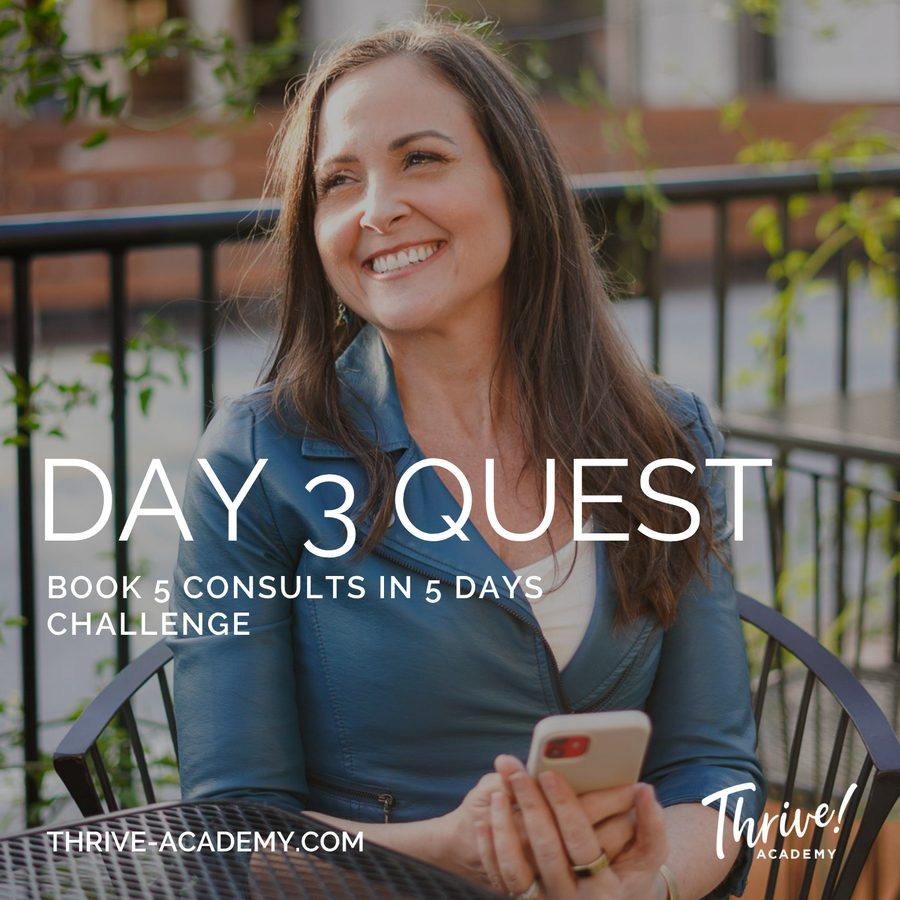
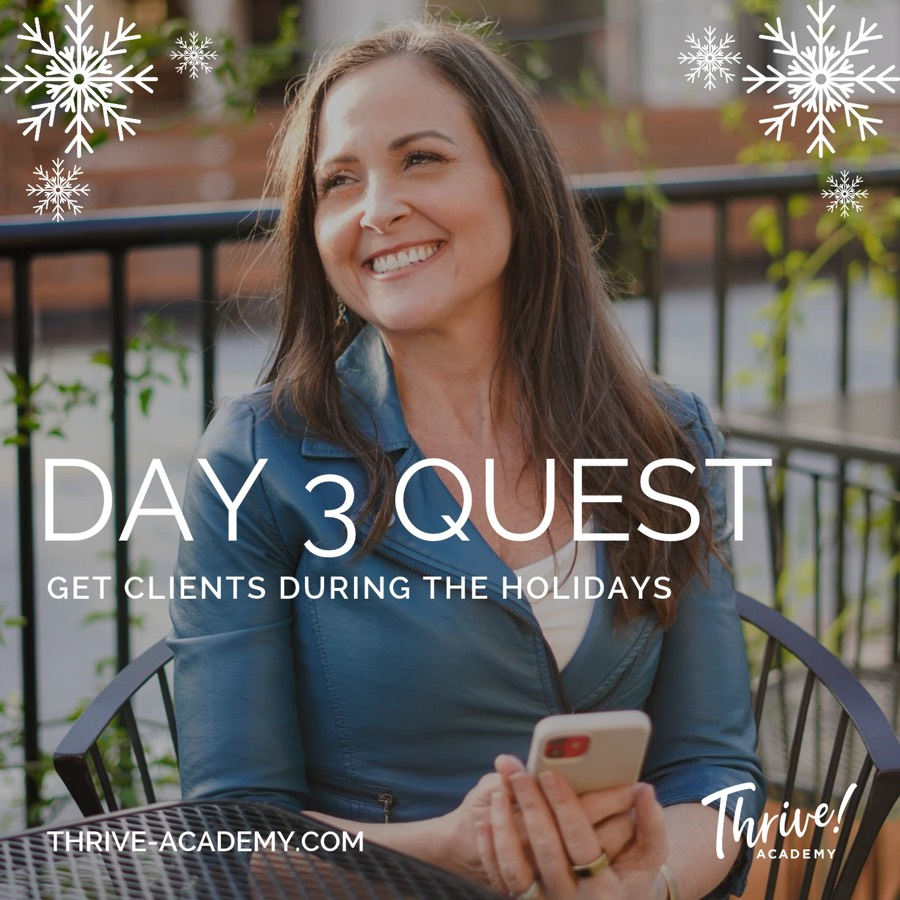
Holiday theme turned up until it registers, plus the new Quest artwork
Ella, 26 Oct: "for the design you decide as long as it's all within branding."

The first version was invisible and she was right to say nothing had changed.
Measured: the frost wash was #F2F7FB sitting on a #F4F4F5 ground. A 2 point
difference. The band shifted 4 points. The snow ran at 5% opacity. I had
optimised for "subtle" and missed "they must feel that the holiday is coming",
which was the other half of the brief.

Her own Quest graphics settle the question. They carry Santa hats, Christmas
trees and snowflakes. Against artwork that festive, a whisper on the page is
not restraint, it is under-dressed.

Turned up, same five ideas, nothing new introduced:
  ground   #F2F7FB -> #E3EEF7 on a cooler #EEF2F6, and a wider wash
  snow     opacity .055 -> .10, dots larger, grid tighter
  band     top #16294B -> #0E1E3C, and a gold hairline along its base
  hairline 68x2 -> 120x3 under headings
  labels   the small Oswald type takes Golden Ticket gold instead of grey
  cards    lift off the colder ground with a 1px shadow

Within the guidelines. Raleway and Oswald untouched, square corners untouched,
orange CTAs untouched so nothing here can move conversion, navy still a band
and a type colour and never a background field. The gold is the Golden Ticket
gradient already in the file, not a new colour.

Still preview only. Sharla has not seen it, and her last verdict on a look I
shipped without showing her first was "off-brand".

diff --git a/index.html b/index.html
@@ -863,8 +863,8 @@ footer.site .f-base{border-top:1px solid var(--line);padding-top:16px;display:fl
    few degrees colder rather than turning blue. */
 body{
   background:
-    radial-gradient(1200px 520px at 50% -140px, #F2F7FB 0%, rgba(242,247,251,0) 70%),
-    var(--shell);
+    radial-gradient(1400px 620px at 50% -160px, #E3EEF7 0%, rgba(227,238,247,0) 72%),
+    #EEF2F6;
 }
 
 /* The faintest snow-dot texture, two offset dot grids at low opacity. It
@@ -873,24 +873,24 @@ body{
 body::before{
   content:"";position:fixed;inset:0;z-index:0;pointer-events:none;
   background-image:
-    radial-gradient(circle at 20% 30%, rgba(255,255,255,.85) 1px, transparent 1.4px),
-    radial-gradient(circle at 70% 60%, rgba(26,50,92,.055) 1px, transparent 1.4px);
-  background-size:120px 120px, 170px 170px;
+    radial-gradient(circle at 20% 30%, rgba(255,255,255,.95) 1.4px, transparent 2px),
+    radial-gradient(circle at 70% 60%, rgba(26,50,92,.10) 1.3px, transparent 1.9px);
+  background-size:90px 90px, 130px 130px;
 }
 .shell{position:relative;z-index:1}
 
 /* The navy band deepens a touch and gains a cold edge, so it reads as a
    winter night rather than flat corporate navy. */
 .strip{
-  background:linear-gradient(180deg,#16294B 0%, var(--ink) 100%);
-  box-shadow:inset 0 -1px 0 rgba(255,255,255,.07);
+  background:linear-gradient(180deg,#0E1E3C 0%, var(--ink) 100%);
+  box-shadow:inset 0 -2px 0 rgba(214,177,70,.55);
 }
 
 /* Gold accent, borrowed from the Golden Ticket rather than introduced.
    A hairline under each day heading. */
 .prep .pre-do::after,
 #main > h1::after{
-  content:"";display:block;width:68px;height:2px;margin-top:14px;
+  content:"";display:block;width:120px;height:3px;margin-top:14px;
   background:var(--grad-gold);
 }
 
@@ -903,7 +903,11 @@ body::before{
 
 /* Day cards and panels lift very slightly off the colder ground so they do
    not look flat against it. */
-.card,.steps,.soon,.winner{background:#fff}
+.card,.steps,.soon,.winner{background:#fff;box-shadow:0 1px 3px rgba(26,50,92,.07)}
+
+/* The small Oswald labels take the Golden Ticket gold instead of grey. It is
+   the one place the season can speak in type without touching a headline. */
+.side .stick h2, .prep .eyebrow{color:#8A6A12}
 
 @media (prefers-reduced-motion: reduce){ body::before{background-image:none} }
 
@@ -1385,7 +1389,7 @@ var CHALLENGE = {
    exactly what happened on 4 September. Each file carries a short hash of its
    own contents, so replacing the file changes the URL and the new one loads.
    Regenerate these whenever a media file is replaced. */
-var MEDIA = {"logo-navy.png":"e76a58c1", "summit-banner.jpg":"232a6c81", "hero.mp4":"85685da3", "hero-poster.jpg":"22612919", "welcome.mp4":"cf61e919", "welcome-poster.jpg":"6ec137a9"};
+var MEDIA = {"logo-navy.png":"e76a58c1", "summit-banner.jpg":"232a6c81", "hero.mp4":"85685da3", "hero-poster.jpg":"22612919", "welcome.mp4":"cf61e919", "welcome-poster.jpg":"6ec137a9", "quest-day1.jpg":"a8546bce", "quest-day2.jpg":"28ee402c", "quest-day3.jpg":"8534965c", "quest-day4.jpg":"f2194816", "quest-day5.jpg":"63a6514f"};
 function m_(f){ return MEDIA[f] ? f+"?v="+MEDIA[f] : f; }
 
 var ZOOM=CHALLENGE.links.zoom, PASSCODE=CHALLENGE.links.passcode, SUMMIT=CHALLENGE.links.summit,
@@ -2188,7 +2192,10 @@ function vDay(n){
   /* The same square artwork that heads that day's post in the Facebook Group,
      so the Hub and the Group read as one thing rather than two. */
   var art = (d.art && !before)
-   ? '<div class="questart"><img src="'+d.art+'" alt="Day '+n+' Quest" width="900" height="900" loading="lazy"></div>'
+   /* m_() not a raw src. These files were replaced on 26 Oct and without a
+      fingerprint Cloudflare would have gone on serving the old artwork for
+      hours, which is exactly how the masthead logo stayed broken for 27. */
+   ? '<div class="questart"><img src="'+m_(d.art)+'" alt="Day '+n+' Quest" width="900" height="900" loading="lazy"></div>'
    : '';
 
   var quest = !isQuestDay(d)
